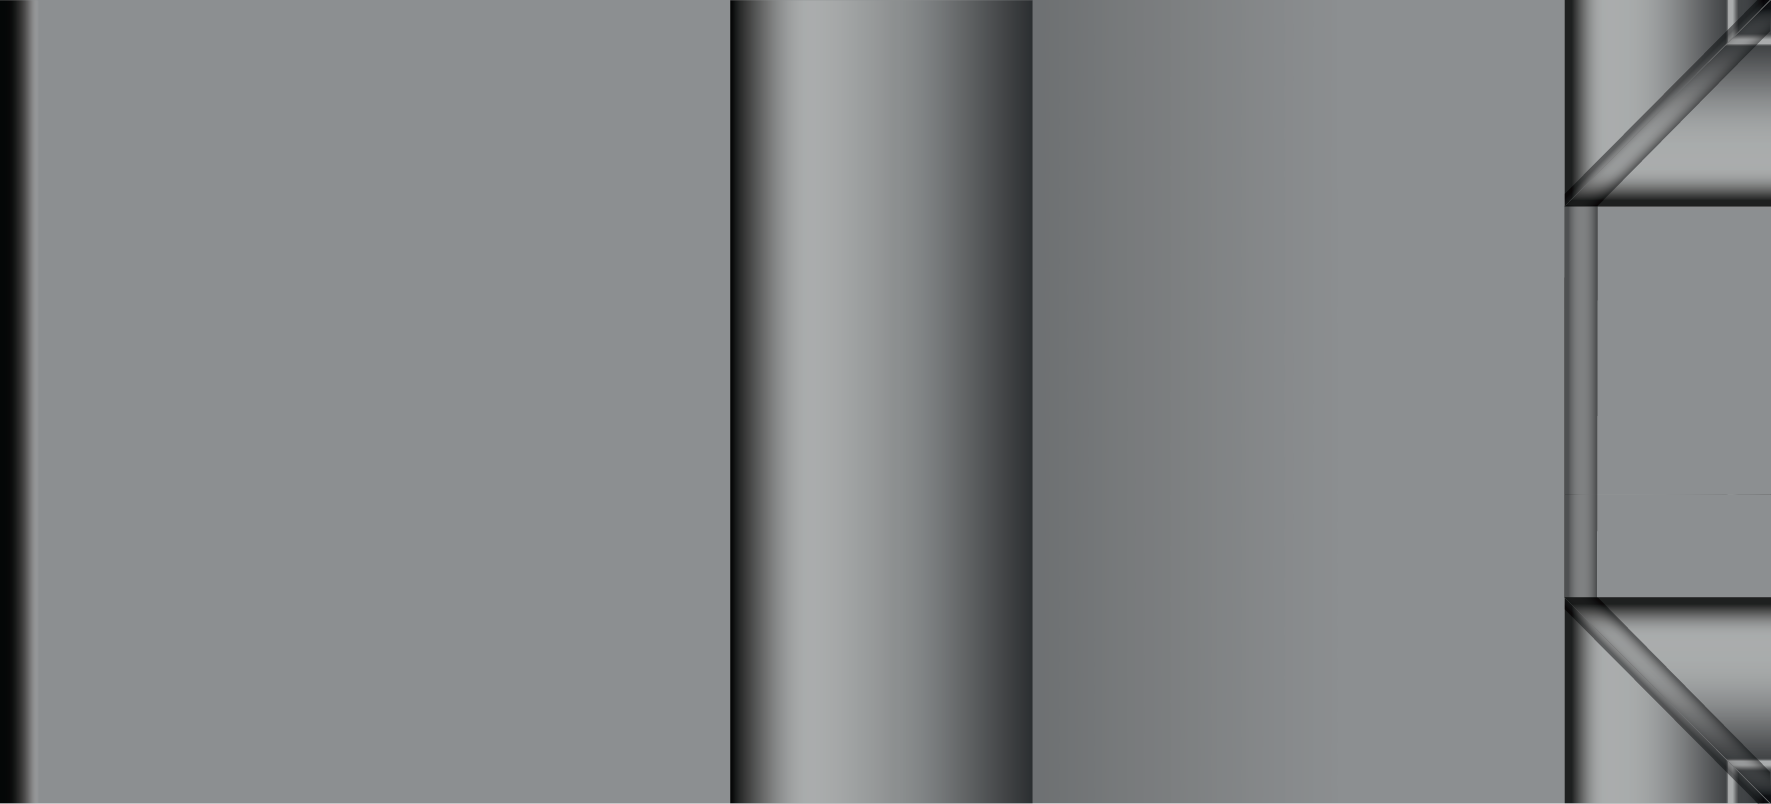
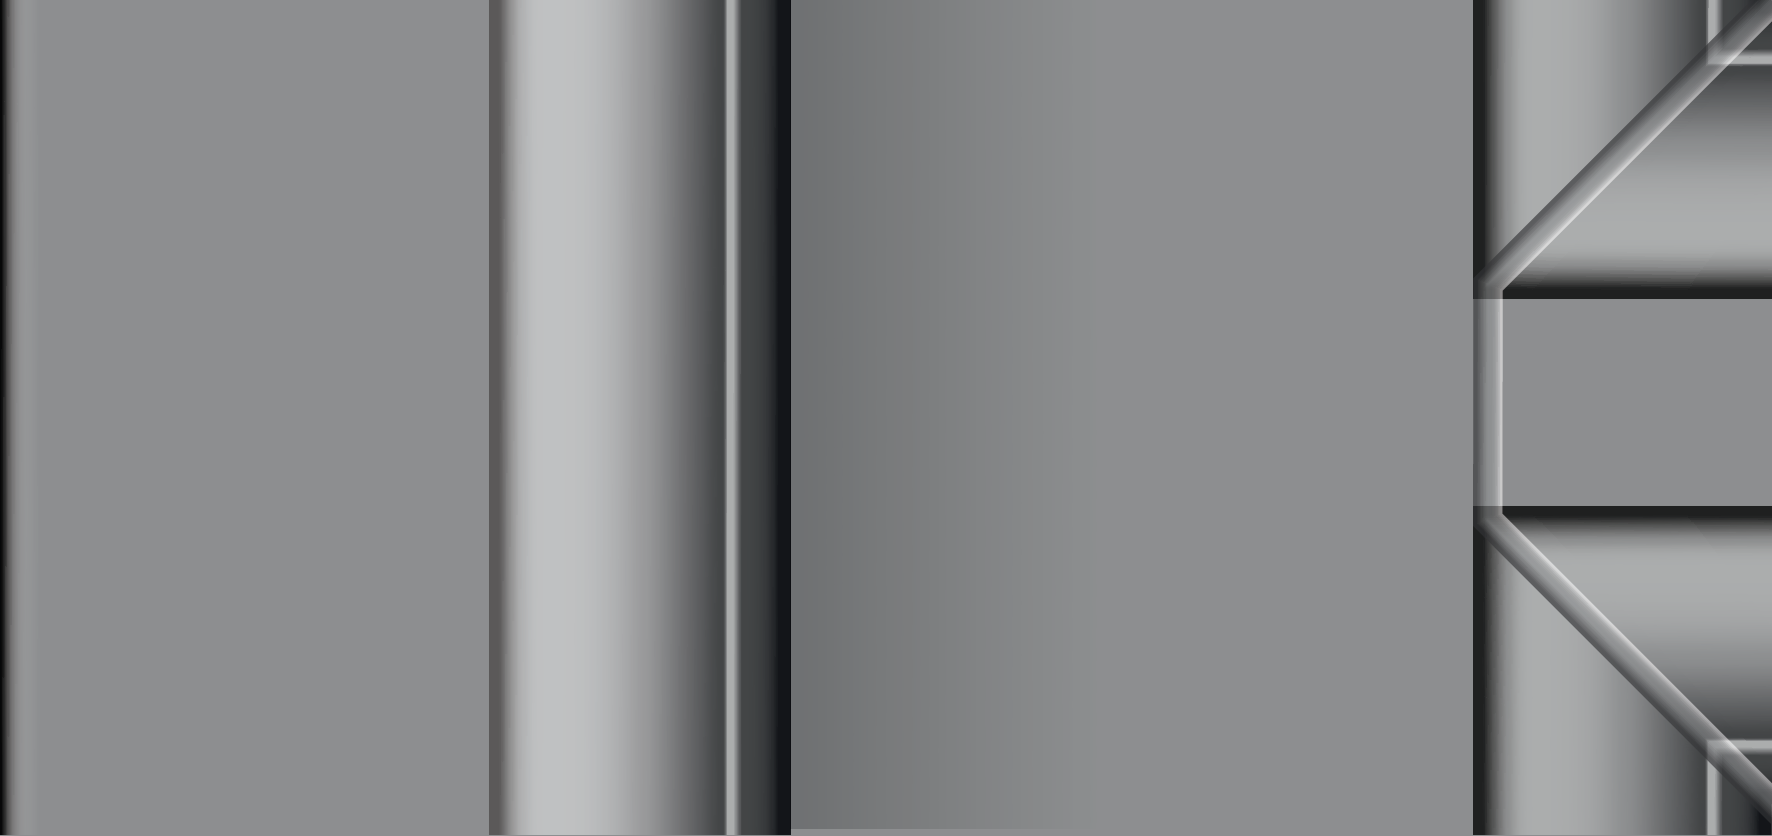
improved

diff --git a/canvasBuilder.js b/canvasBuilder.js
@@ -355,12 +355,13 @@ const frameElements = JSON.parse(
 
   // Metal threshold overlay — Allure & Elegance only (Lorimer uses the cropped frame-x instead)
   if (!isLorimerCollection) {
-    const threshY = panelHeight * 0.989;
+    const threshH = 5 * RS;
+    const threshY = panelHeight - threshH;
     const threshW = panelWidth * 0.86;
     const threshX = (panelWidth - threshW) / 2;
     finalCtx.globalCompositeOperation = "source-over";
     finalCtx.fillStyle = "rgb(236, 236, 236)";
-    finalCtx.fillRect(threshX, threshY, threshW, 5 * RS);
+    finalCtx.fillRect(threshX, threshY, threshW, threshH);
   }
 
   // Step 3: Glazing
@@ -410,10 +411,11 @@ const frameElements = JSON.parse(
 
         } else if (layout.midInset) {
           const mi = layout.midInset;
-          // Midrail height in canvas px (lorimer-midrail moldingDef height: 75mm)
-          const midrailH  = 75 * mmToPx;
-          const midrailTop = panelHeight / 2 - midrailH / 2;
-          const midrailBot = panelHeight / 2 + midrailH / 2;
+          // Midrail uses RS units to match sidescreen midFrameHeight/midFrameOffsetY logic
+          const midrailH      = 75 * RS;
+          const midrailCenter = panelHeight / 2 + 75 * RS;
+          const midrailTop    = midrailCenter - midrailH / 2;
+          const midrailBot    = midrailCenter + midrailH / 2;
           const lx = (mi.side ?? 35) * RS;
           glazeX = lx;
           width  = panelWidth - lx * 2;
@@ -542,10 +544,13 @@ const frameElements = JSON.parse(
   const moldW = moldingDef.widthFactor !== undefined
     ? Math.round(moldingDef.widthFactor * panelWidth)
     : Math.round((moldingDef?.width ?? 0) * mmToPx);
-  const moldH = Math.round((moldingDef?.height ?? 0) * mmToPx);
+  const moldH = moldingDef.heightRS !== undefined
+    ? Math.round(moldingDef.heightRS * RS)
+    : Math.round((moldingDef?.height ?? 0) * mmToPx);
   const offsetX = Math.round((moldingDef?.offsetX ?? 0) * mmToPx);
   const offsetY = Math.round(
     (moldingDef.offsetYFactor !== undefined ? moldingDef.offsetYFactor * panelHeight : 0) +
+    (moldingDef.offsetYRS !== undefined ? moldingDef.offsetYRS * RS : 0) +
     (moldingDef?.offsetY ?? 0) * mmToPx
   );
 
@@ -615,6 +620,9 @@ const frameElements = JSON.parse(
   } else if (moldingDef?.elements) {
     moldingElements = JSON.parse(JSON.stringify(moldingDef.elements));
 
+    const useRS = moldingDef.useRS === true;
+    const toUnit = (v) => useRS ? Math.round(v * RS) : Math.round(v * mmToPx);
+
     for (const el of moldingElements) {
       const r = el.rect ?? {};
 
@@ -622,12 +630,12 @@ const frameElements = JSON.parse(
         r.width !== undefined
           ? r.width === "full"
             ? moldW
-            : Math.round(r.width * mmToPx)
+            : toUnit(r.width)
           : (r.widthFactor ?? 0) * moldW;
 
       const h =
         r.height !== undefined
-          ? Math.round(r.height * mmToPx)
+          ? toUnit(r.height)
           : (r.heightFactor ?? 0) * moldH;
 
       const x =
@@ -636,7 +644,7 @@ const frameElements = JSON.parse(
           : r.x === "centre"
           ? (moldW - w) / 2
           : r.x !== undefined
-          ? Math.round(r.x * mmToPx)
+          ? toUnit(r.x)
           : (r.xFactor ?? 0) * moldW;
 
       const y =
@@ -645,7 +653,7 @@ const frameElements = JSON.parse(
           : r.y === "centre"
           ? (moldH - h) / 2
           : r.y !== undefined
-          ? Math.round(r.y * mmToPx)
+          ? toUnit(r.y)
           : (r.yFactor ?? 0) * moldH;
 
       el.rect = { x, y, width: w, height: h };

diff --git a/data.js b/data.js
@@ -857,12 +857,14 @@ const moldingDefs = [
   {
     id: "lorimer-midrail",
     widthFactor: 1,
-    height: 75,
+    heightRS: 75,
+    useRS: true,
     align: "center",
     verticalAlign: "top",
     blockAnchor: "centre",
     offsetX: 0,
     offsetYFactor: 0.5,
+    offsetYRS: 75,
     mask: false,
     elements: [
       {
